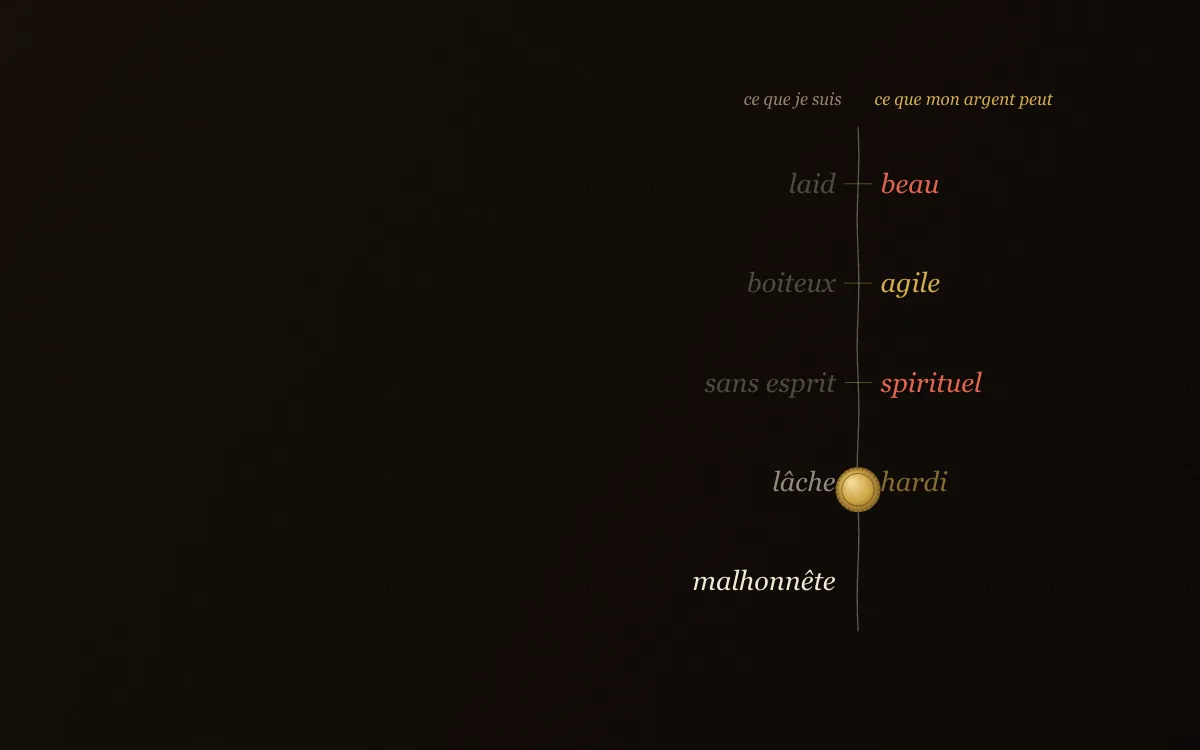
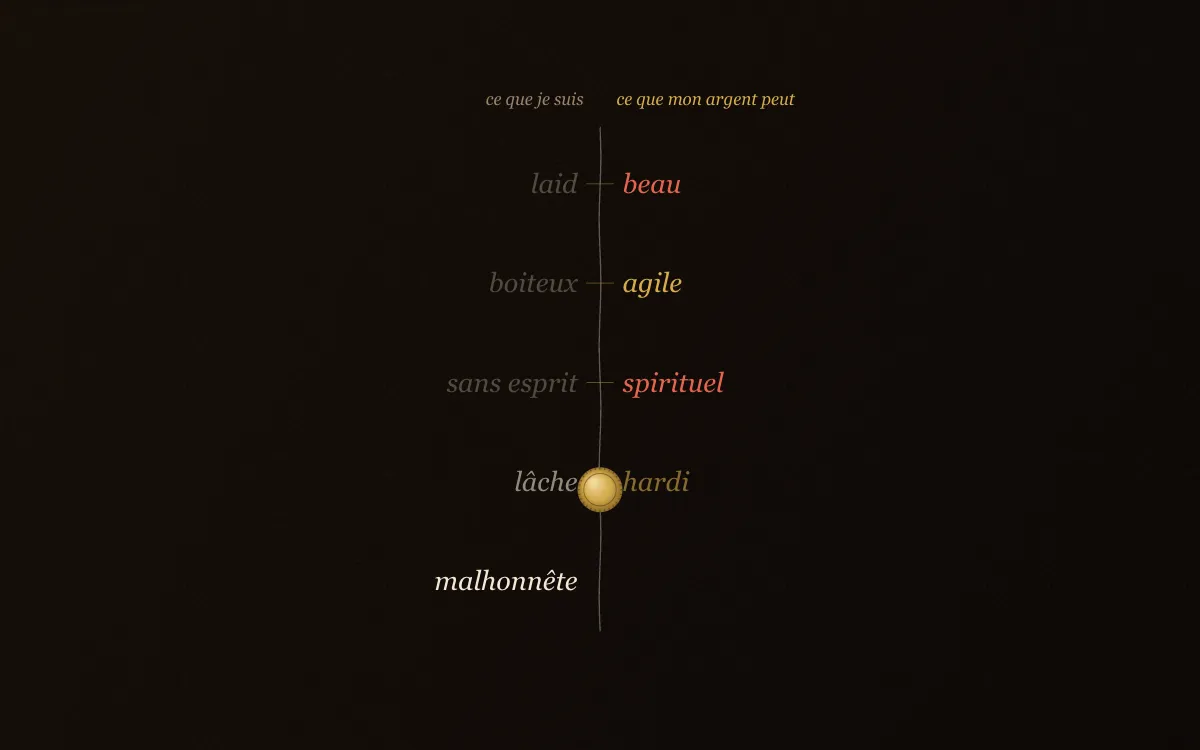
Glossaire : argent réécrite selon la charte, direction artistique « le contrat »

diff --git a/glossaire/mondes/argent/essai.html b/glossaire/mondes/argent/essai.html
@@ -1,51 +1,78 @@
-<!-- L'ESSAI — le corps de /glossaire/argent.
-     ⚠ AUCUNE CITATION LIÉE, ET C'EST DÉLIBÉRÉ. Le texte des Manuscrits que
+<!-- L'ESSAI : le corps de /glossaire/argent.
+     Réécrit en octobre 2026 selon glossaire/mondes/CHARTE.md.
+     AUCUNE CITATION LIÉE, ET C'EST DÉLIBÉRÉ : le texte des Manuscrits que
      ce site sert est la traduction d'Émile Bottigelli, protégée jusqu'en
-     2046 ; en reproduire vingt passages sur une page publique et indexée
-     n'est pas une décision technique. Le troisième manuscrit est donc
-     PARAPHRASÉ et situé, jamais cité entre guillemets — comme le Livre III
-     l'est sur la page de la loi tendancielle, et comme le font déjà les
-     versions courtes des notions des Manuscrits. -->
+     2046. Le fragment sur l'argent (troisième manuscrit, pages XLI à XLIII)
+     est PARAPHRASÉ et situé, jamais cité entre guillemets ; Goethe et
+     Shakespeare, que Marx cite, le sont aussi (leurs traductions sont
+     récentes). Ce qui est dit du Capital (chapitre III) a été relevé dans le
+     texte de Roy que sert la liseuse, et reste paraphrasé : la page n'a
+     qu'une source de citations. Les data-etape et les id des sections ne
+     changent pas : la scène lit les premiers, les liens et la recherche les
+     seconds. -->
 
 <section class="nt-sec" data-etape="puissance" id="puissance">
-<h2>Ce que je suis, et ce que je peux</h2>
-<p>Les dernières pages du troisième manuscrit de 1844 sont consacrées à l'argent, et elles se distinguent de tout le reste du cahier par leur allure&nbsp;: Marx y écrit presque en moraliste, appuyé sur Goethe et sur Shakespeare, et pourtant il n'y a pas dans ces pages une once de morale. Ce qu'il y cherche est une propriété très précise, et il la formule comme un écart&nbsp;: entre ce que je suis et ce que je peux, l'argent introduit une distance que rien, dans ma personne, ne justifie.</p>
-<p>L'expérience qu'il décrit est banale, et c'est ce qui la rend redoutable. Ce que je désire sans pouvoir l'obtenir demeure une simple représentation&nbsp;; mais l'argent transforme la représentation en effet, et l'effet en réalité. Il me confère des propriétés que je n'ai pas — celles des choses et des personnes qu'il me permet d'obtenir —, et il me les confère sans que j'aie eu à devenir quoi que ce soit. Marx en tire la formule qui commande tout le fragment&nbsp;: l'argent est le pouvoir aliéné de l'humanité, c'est-à-dire une puissance qui appartient aux hommes et qui se dresse devant eux comme un être séparé.</p>
-<p>Il faut d'emblée écarter la lecture qui viendrait le plus naturellement, parce qu'elle rendrait le texte inoffensif. Marx ne dit pas que l'argent corrompt les âmes, ni que les riches sont mauvais. Il dit que l'argent est une <b>puissance réelle</b>, dotée d'effets réels, et que ces effets consistent à séparer les qualités de ceux qui les portent. Ce n'est pas une faiblesse des hommes, c'est une propriété du rapport.</p>
+<h2>Que fait l'argent à celui qui le possède&nbsp;?</h2>
+<p class="nt-lead">Il lui donne les qualités qu'il n'a pas. Ce que je peux payer, je le suis&nbsp;: l'argent sépare ce que je suis de ce que je peux, et Marx l'appelle pour cette raison la puissance aliénée de l'humanité.</p>
+<p>Marx part d'une propriété que tout le monde connaît. L'argent peut tout acheter, c'est-à-dire s'approprier n'importe quel objet. Il est donc l'objet par excellence, celui qui donne accès à tous les autres, et l'universalité de ce pouvoir le fait passer pour tout-puissant. Il se place entre le besoin et la chose qui le satisfait, entre la vie d'un homme et ses moyens de subsistance. Marx ajoute aussitôt qu'il se place de la même façon entre moi et les autres hommes&nbsp;: ce qui me relie à ce dont je vis me relie aussi à ceux dont je dépends.</p>
+<p>Pour dire ce que cela change, il commence par un vers de Goethe. Dans le premier <i>Faust</i>, Méphistophélès explique que s'il peut payer six étalons, leurs forces sont à lui, et qu'il avance comme s'il avait vingt-quatre pattes. Marx prend la plaisanterie au sérieux. Les qualités de l'argent deviennent celles de son possesseur, et ma force est aussi grande que celle de mon argent. Ce que je suis et ce que je peux ne dépend donc plus de mon individualité.</p>
+<p>La formule qui résume le fragment vient de là. L'argent est la puissance aliénée de l'humanité. Une puissance aliénée, dans le vocabulaire de ces cahiers, est une force qui appartient aux hommes et qui leur fait face comme une chose étrangère, qu'ils ne commandent plus. La capacité de se procurer ce dont on a besoin, de faire travailler, de nouer des liens, est une capacité humaine&nbsp;; sous la forme de l'argent, elle se détache des hommes et se loge dans un objet que n'importe qui peut détenir.</p>
 </section>
 
 <section class="nt-sec" data-etape="ou" id="ou">
-<h2>Où Marx le pose&nbsp;: à la fin du troisième cahier</h2>
-<p>La place du fragment mérite qu'on s'y arrête, parce qu'elle n'est pas indifférente. Ces pages viennent après celles sur la <a href="/glossaire/propriete-privee">propriété privée</a> et le communisme, après celles sur les <a href="/glossaire/besoins">besoins</a> et la production, à la fin d'un cahier lui-même resté inachevé. Elles ne fondent donc rien&nbsp;: elles achèvent. Ce qui a été établi de l'aliénation du travail y trouve sa forme la plus condensée, dans un objet que tout le monde manie.</p>
-<p>On peut voir la progression, et elle est instructive. Le premier manuscrit avait montré que le travailleur, en produisant, produit une puissance qui lui devient étrangère — c'est le <a href="/glossaire/travail-aliene">travail aliéné</a>. Le troisième reprend la même figure à un autre niveau&nbsp;: l'humanité, dans son commerce, produit un moyen d'échange, et ce moyen devient la mesure et le maître de ce qu'il devait servir. L'argent est à la société ce que la statue est au sculpteur.</p>
-<p>Cette place explique aussi la manière. Marx n'analyse pas ici la monnaie&nbsp;: il ne demande pas d'où elle vient, ni comment elle mesure, ni ce que sont ses fonctions. Ces questions viendront vingt ans plus tard, au chapitre&nbsp;III du <a href="/glossaire/fetichisme">Capital</a>, et elles seront traitées tout autrement. Le fragment de 1844 pose une question philosophique&nbsp;: qu'est-ce qu'un objet qui donne à son possesseur des propriétés qu'il n'a pas&nbsp;? Il faut lire ces pages pour ce qu'elles sont, et ne pas leur demander une théorie monétaire qu'elles ne prétendent pas donner.</p>
+<h2>Où Marx écrit-il ces pages, et que cherche-t-il&nbsp;?</h2>
+<p class="nt-lead">Ce sont trois pages du troisième des <i>Manuscrits de 1844</i>, des notes de travail restées inédites jusqu'en 1932. Marx n'y fait pas la théorie de la monnaie&nbsp;: il demande ce que devient un homme quand ses rapports au monde passent par un objet qui peut tout acheter.</p>
+<p>Le fragment occupe les pages XLI à XLIII du cahier. L'éditeur signale qu'elles viennent, dans le manuscrit, après les notes sur la division du travail et après le projet de préface, que l'édition imprime en tête du volume. Le titre qu'on lit au-dessus, «&nbsp;Pouvoir de l'argent dans la société bourgeoise&nbsp;», est entre crochets&nbsp;: il est de l'éditeur, pas de Marx. Ces cahiers, écrits à Paris, n'ont jamais été publiés par leur auteur.</p>
+<p>Le fragment ne s'ouvre pas sur l'argent. Il s'ouvre sur les passions et les sens de l'homme, que Marx tient pour des manières d'affirmer son être&nbsp;: chacune a sa façon propre de se rapporter à son objet, et l'on ne jouit pas d'une musique comme d'un repas. C'est sur ce fond que l'argent apparaît, comme ce qui ramène toutes ces manières à une seule, avoir.</p>
+<p>Les pages qui précèdent dans le même cahier préparent le terrain. Sur les <a href="/glossaire/besoins">besoins</a>, Marx écrivait que sous la <a href="/glossaire/propriete-privee">propriété privée</a> chacun cherche à créer chez l'autre un besoin nouveau, pour le placer dans une dépendance nouvelle, et que le besoin d'argent est le seul besoin que produise l'économie politique. Il ajoutait que l'argent, réduisant tout à sa quantité, n'a plus d'autre mesure que la démesure. Le fragment sur l'argent reprend ces remarques et leur donne un objet&nbsp;: la pièce qu'on tient dans la main.</p>
 </section>
 
 <section class="nt-sec" data-etape="distinction" id="distinction">
-<h2>La distinction qui fait le concept&nbsp;: l'avoir et l'être</h2>
-<p>Le fragment tient sur une distinction que Marx conduit avec une rigueur presque scolastique. D'un côté, ce que je suis&nbsp;: mes facultés réelles, ce que je sais faire, ce que je peux effectivement susciter chez autrui. De l'autre, ce que mon argent est pour moi&nbsp;: ce qu'il me procure, et donc ce dont je parais capable. Dans le premier registre, mes propriétés sont <i>miennes</i>, en ce sens qu'elles ne valent que ce que je vaux. Dans le second, elles sont celles de mon argent, et elles valent ce qu'il vaut.</p>
-<p>La conséquence, dès qu'on la formule, est vertigineuse&nbsp;: l'individualité disparaît comme condition de l'effet. Si je suis laid, l'argent m'achète ce que la beauté obtiendrait&nbsp;; si je suis sans esprit, il m'achète ce qu'obtiendrait l'esprit&nbsp;; s'il faut du courage, il m'achète l'audace d'autrui. Chaque qualité devient disponible séparément de celui qui la porte, et le possesseur reçoit l'effet sans la cause. C'est bien pourquoi Marx parle d'inversion et non de tromperie&nbsp;: rien n'est caché, et pourtant chaque chose se présente à l'envers de ce qu'elle est.</p>
-<p>Il faut mesurer ce que cette distinction doit au <a href="/glossaire/travail-aliene">travail aliéné</a> et ce qu'elle y ajoute. Elle lui doit la structure&nbsp;: une puissance humaine qui, une fois objectivée, revient sur son auteur comme un pouvoir. Elle y ajoute la généralité&nbsp;: ce n'est plus le seul travailleur qui se trouve dépossédé de ce qu'il a produit, c'est chacun qui se trouve dépossédé de la nécessité d'être ce qu'il paraît. L'argent, dans ces pages, est moins un objet qu'un opérateur — il ne fait pas partie du monde qu'il transforme.</p>
+<h2>Quelle différence y a-t-il entre ce que je suis et ce que je peux&nbsp;?</h2>
+<p class="nt-lead">D'un côté mes forces propres, celles que je possède en personne&nbsp;; de l'autre, les forces que mon argent me procure. Sans argent, les deux colonnes se confondent. Avec lui, la seconde devient indépendante de la première.</p>
+<p>Marx déroule la distinction sur une série de cas, à la première personne. Je suis laid, mais je peux m'acheter la plus belle femme&nbsp;: l'effet de la laideur, ce qui repousse, est annulé, et je ne suis donc plus laid. Je suis perclus, et l'argent me donne vingt-quatre pattes. Je suis malhonnête et sans conscience, mais l'argent est honoré, donc son possesseur l'est aussi, et comme il m'épargne la peine d'être malhonnête, on me présume honnête. Je suis sans esprit, mais je peux payer les gens d'esprit&nbsp;; et celui qui a pouvoir sur les gens d'esprit, demande Marx avec ironie, n'est-il pas plus spirituel qu'eux&nbsp;?</p>
+<p>Chaque cas suit le même schéma. Une qualité produit un effet&nbsp;: la beauté attire, l'agilité déplace, l'esprit convainc. L'argent permet d'obtenir l'effet sans la qualité. Le possesseur reçoit le résultat d'une capacité qu'il n'a pas, et cette capacité se trouve alors séparée de ceux qui la portent, puisqu'elle s'achète au même titre qu'une chose.</p>
+<div class="nt-ex">
+<p class="nt-ex-t">Un exemple</p>
+<p>Marx en donne deux, très simples. Je veux faire une longue route et je ne suis pas assez fort pour la faire à pied. Si j'ai de l'argent, je prends la chaise de poste&nbsp;; mon désir quitte ma tête et devient un voyage. Celui qui n'a pas d'argent a le même désir, mais ce désir n'a d'effet ni sur les autres ni sur le monde&nbsp;: il reste une idée. Marx en conclut que, sans argent pour voyager, je n'ai pas de besoin réel de voyager.</p>
+<p>Le second exemple pousse plus loin. Un jeune homme a la vocation d'étudier et pas l'argent pour le faire&nbsp;: sa vocation ne mène nulle part, elle n'est pas une vocation effective. Un autre n'en a aucune, mais il a la volonté et l'argent&nbsp;: il étudiera, et il passera pour avoir une vocation. Entre les deux, Marx voit la différence de l'être et de la pensée. L'argent décide lequel de nos désirs existe hors de nous et lequel reste une simple représentation.</p>
+</div>
+<p>La distinction doit beaucoup au <a href="/glossaire/travail-aliene">travail aliéné</a> du premier manuscrit, où le produit de l'ouvrier lui faisait face comme une puissance étrangère. Elle en élargit la portée. Il ne s'agit plus seulement de l'ouvrier dépossédé de ce qu'il fabrique. Chacun, riche ou pauvre, voit ce qu'il peut se détacher de ce qu'il est&nbsp;: le riche obtient ce qu'il ne mérite pas, le pauvre manque ce dont il serait capable.</p>
 </section>
 
 <section class="nt-sec" data-etape="inversion" id="inversion">
-<h2>Le mécanisme&nbsp;: l'inversion universelle</h2>
-<p>La démonstration passe par deux textes littéraires que Marx cite longuement, et il est significatif qu'il ait eu besoin d'eux. Le premier est le <i>Faust</i> de Goethe, où l'or est présenté comme ce qui fait accourir à son possesseur ce que sa personne n'appellerait jamais. Le second est le <i>Timon d'Athènes</i> de Shakespeare, dont Marx retient l'invective contre l'or capable de rendre le noir blanc, le laid beau, le faux vrai, le lâche vaillant. Nous nous en tenons ici à en donner la teneur, sans les transcrire&nbsp;: le texte que ce site sert est une traduction récente, et nous préférons renvoyer au cahier plutôt que d'en reproduire les pages.</p>
-<p>Ce que Marx tire de ces deux témoignages n'est pas une image mais une propriété logique, qu'il énonce en deux temps. Premier temps&nbsp;: l'argent est la <b>confusion</b> de toutes les déterminations, en ce qu'il rend chaque chose échangeable contre chaque autre et abolit donc la spécificité de chacune. Second temps&nbsp;: il est par là même l'<b>inversion</b> de toutes choses, puisqu'il permet de réaliser le contraire de ce que l'on est. La confusion vient de son universalité, l'inversion de sa transitivité — et les deux ensemble font que la fidélité peut s'échanger contre l'infidélité, la vertu contre le vice, l'amour contre la haine.</p>
-<p>On aperçoit ici pourquoi Marx accorde tant de poids à un fragment qui pourrait passer pour un morceau de rhétorique. Ce que l'argent défait, ce n'est pas la vertu de tel homme&nbsp;: c'est la liaison entre une qualité et sa manifestation. Or cette liaison est ce que 1844 appelle la vie générique — le fait que ce que l'homme est se déploie dans ce qu'il fait. Le fragment sur l'argent est donc l'achèvement de la théorie de l'aliénation, et non un appendice moral&nbsp;: il montre l'aliénation devenue un objet qu'on tient dans la main.</p>
+<h2>Pourquoi Marx parle-t-il d'un monde à l'envers&nbsp;?</h2>
+<p class="nt-lead">Parce que l'argent s'échange contre le monde entier, et non contre une qualité déterminée. Du point de vue de celui qui le possède, il échange donc n'importe quelle qualité contre n'importe quelle autre, y compris contre son contraire.</p>
+<p>Le second témoin de Marx est Shakespeare. Il recopie deux tirades du <i>Timon d'Athènes</i> (acte&nbsp;IV, scène&nbsp;3), où Timon, ruiné et retiré dans une forêt, trouve de l'or en creusant la terre et l'injurie. Ce peu de métal, dit Timon, rend blanc le noir, beau le laid, juste l'injuste, vaillant le lâche&nbsp;; il fait bénir les maudits et asseoir les voleurs au sénat. Plus loin, il l'appelle un dieu visible, qui soude ensemble les choses incompatibles. Marx souligne ces mots, et ceux où l'or jette l'humanité dans des querelles qui la détruisent. Il ajoute que Shakespeare a parfaitement décrit l'essence de l'argent.</p>
+<div data-planche="timon"></div>
+<p>Marx retient de Shakespeare deux propriétés. L'argent est d'abord la divinité visible, qui change toutes les qualités humaines et naturelles en leur contraire&nbsp;: Marx parle de confusion et de perversion universelle des choses, et de fraternisation des impossibilités. Il est ensuite l'entremetteur universel, qui met en rapport les hommes et les peuples. Les deux propriétés vont ensemble. Puisque tout passe par lui, il relie tout, et c'est en reliant tout qu'il rend tout échangeable contre tout.</p>
+<p>Il faut bien voir ce que veut dire «&nbsp;à l'envers&nbsp;». Marx énumère&nbsp;: l'argent change la fidélité en infidélité, l'amour en haine, la vertu en vice, le valet en maître, la bêtise en intelligence, et chaque fois l'inverse aussi. Qui peut acheter le courage est courageux, même s'il est lâche. Personne n'est trompé dans l'affaire. Le lâche qui paie des soldats remporte bel et bien la bataille&nbsp;; c'est le lien entre une qualité et ce qu'elle produit qui a été défait.</p>
+<p>Marx tire de là une dernière image, pleine d'ironie. L'argent est le lien de tous les liens, ce qui m'attache à la vie humaine, à la société et à la nature. Il peut donc aussi bien nouer que dénouer tous les liens&nbsp;: il est le moyen universel de séparation, en même temps que le moyen d'union. Il l'appelle la vraie monnaie divisionnaire, en jouant sur le mot&nbsp;: la petite monnaie qui sert à faire l'appoint est aussi celle qui divise.</p>
 </section>
 
 <section class="nt-sec" data-etape="ouvre" id="ouvre">
-<h2>Ce que le concept ouvre&nbsp;: la mesure d'une richesse</h2>
-<p>Le fragment se retourne dans ses dernières lignes, et ce retournement est ce que la page doit retenir. Marx demande qu'on suppose l'homme comme homme, et son rapport au monde comme un rapport humain&nbsp;: alors chacune de ses relations à l'objet devrait être une expression déterminée de sa vie individuelle réelle. Aimer suppose de susciter l'amour&nbsp;; jouir de l'art suppose une culture artistique&nbsp;; exercer une influence sur autrui suppose d'être effectivement quelqu'un qui stimule et encourage. Si l'on aime sans éveiller l'amour en retour, alors cet amour est impuissant, et c'est un malheur.</p>
-<p>La proposition est plus forte qu'elle n'en a l'air, en cela qu'elle donne un critère. La richesse humaine n'est pas la quantité de choses dont on dispose&nbsp;: elle est l'étendue des rapports que l'on est capable d'entretenir réellement, chacun demandant une capacité déterminée. On voit alors ce que l'argent supprime — non des biens, mais la nécessité des capacités —, et pourquoi Marx tient cette suppression pour une perte, y compris pour celui qui en profite.</p>
-<p>Nous ajoutons que ce critère éclaire rétrospectivement les pages sur les <a href="/glossaire/besoins">besoins</a> qui précèdent dans le même cahier, et qu'il faut lire les deux ensemble. Là, Marx observait que sous la propriété privée chacun s'emploie à susciter chez l'autre un besoin nouveau, afin de l'obliger à un sacrifice nouveau&nbsp;; ici, il donne la mesure de ce que serait un besoin non aliéné. Ce ne sont pas deux thèmes, c'est le même, pris par les deux bouts.</p>
+<h2>À quoi ressemblerait un rapport qui ne passe pas par l'argent&nbsp;?</h2>
+<p class="nt-lead">À un rapport où chaque chose ne s'obtient que par la capacité qui lui répond&nbsp;: l'amour contre l'amour, la confiance contre la confiance. Le fragment se termine sur ce critère, qui donne la mesure d'une richesse proprement humaine.</p>
+<p>Les dernières lignes changent de ton. Marx demande au lecteur de supposer l'homme en tant qu'homme et son rapport au monde comme un rapport humain. Alors on ne peut échanger l'amour que contre l'amour, la confiance que contre la confiance. Pour jouir de l'art, il faut être un homme cultivé en matière d'art. Pour avoir de l'influence sur les autres, il faut avoir sur eux une action qui les anime et les stimule réellement. Chacun de nos rapports aux hommes et à la nature doit être une expression déterminée de notre vie individuelle réelle.</p>
+<p>La dernière phrase est la plus forte. Si l'on aime sans faire naître l'amour en retour, si en aimant on ne devient pas un homme aimé, cet amour est impuissant, et c'est un malheur. Marx ne juge personne. Un rapport humain se gagne en devenant capable de le susciter, et il peut échouer.</p>
+<p>On voit alors ce que l'argent retire, y compris à celui qui en profite&nbsp;: la nécessité de devenir capable. Celui qui paie la compagnie des gens d'esprit n'a jamais à le devenir. La richesse humaine se mesure, dans ce passage, à l'étendue des rapports que l'on est réellement capable d'entretenir avec le monde et avec les autres&nbsp;; l'argent la remplace par la quantité de ce que l'on peut se procurer. Le même cahier appelle <a href="/glossaire/communisme">communisme</a> la société où ces rapports redeviendraient humains, et il prend soin de le distinguer d'un communisme grossier qui ne ferait qu'étendre à tous la possession.</p>
 </section>
 
 <section class="nt-sec" data-etape="lectures" id="lectures">
-<h2>Lectures, et contresens</h2>
-<p>Le premier contresens fait de ces pages un pamphlet contre l'argent, et Marx un moraliste qui regretterait un monde sans monnaie. Le texte n'autorise pas cette lecture&nbsp;: il ne demande pas la suppression d'un objet, il décrit la structure d'un rapport où les qualités se détachent de leurs porteurs. Le remède qu'il esquisse n'est d'ailleurs pas l'abstinence mais une transformation du rapport social lui-même — ce que le même cahier appelle communisme, et dont il prend soin de distinguer la version fruste qui ne ferait qu'universaliser la possession.</p>
-<p>Le deuxième contresens consiste à lire ici la théorie monétaire de Marx. Elle n'y est pas, et il faut le dire nettement pour éviter de prêter au jeune Marx ce qu'il n'a pas encore. Rien dans ces pages sur la forme-valeur, rien sur l'équivalent général, rien sur la fonction de mesure ni sur le trésor&nbsp;: tout cela viendra du chapitre&nbsp;III du <i>Capital</i>, et changera de terrain, puisqu'il s'agira d'expliquer comment la monnaie naît de l'échange des marchandises et non plus ce qu'elle fait à ceux qui la détiennent. Il y a bien une continuité — l'inversion de 1844 annonce le <a href="/glossaire/fetichisme">fétichisme</a> de 1867 — mais elle est de problème, non de doctrine.</p>
-<p>Le troisième contresens est de statut. Les <i>Manuscrits de 1844</i> sont des cahiers de travail, restés inédits jusqu'en 1932&nbsp;; ils n'ont pas été publiés par leur auteur, qui les a laissés pour passer à autre chose. Nous nous rangeons parmi ceux qui les lisent comme un chantier de grande portée plutôt que comme un système achevé, et nous tenons pour imprudent, dans les deux sens, de faire du fragment sur l'argent soit la clé de toute l'œuvre, soit un péché de jeunesse dont la maturité aurait guéri.</p>
-<p>Reste un point de vocabulaire. On lit parfois que l'argent serait ici une «&nbsp;divinité visible&nbsp;»&nbsp;; l'expression vient de Shakespeare, que Marx cite, et non de Marx lui-même — elle décrit ce que l'or fait, dans la bouche de Timon, et il est plus juste de dire que Marx la reprend à son compte que de la lui attribuer.</p>
+<h2>Comment lire ce fragment, et quels contresens éviter&nbsp;?</h2>
+<p class="nt-lead">Il faut le lire comme l'analyse d'une forme sociale, que <i>Le Capital</i> reprendra sur un autre terrain. Trois contresens courants se corrigent en relisant le texte.</p>
+<p>Vingt ans plus tard, au chapitre&nbsp;III du premier livre du <i>Capital</i>, consacré à la monnaie et à la circulation des marchandises, on retrouve la même idée dans un autre vocabulaire. Marx y décrit l'argent comme un niveleur radical qui efface toutes les distinctions, de même que toute différence de qualité entre les marchandises s'efface en lui&nbsp;; et il note que, l'argent étant une chose qui peut tomber entre les mains de n'importe qui, la puissance sociale devient la puissance privée des particuliers. La phrase de 1844 sur la puissance aliénée de l'humanité est devenue une analyse de la circulation. Entre les deux, Marx a établi d'où vient l'argent&nbsp;: de l'échange des marchandises, ce que les <i>Manuscrits</i> ne demandaient pas. Le chapitre sur le <a href="/glossaire/fetichisme">fétichisme</a> qui précède en donne la raison.</p>
+<p>Le fragment dit lui-même, en passant, que l'argent est le concept existant de la valeur, ce qui annonce ce déplacement. Il n'en tire pas encore de théorie. Il n'y est question ni de mesure des valeurs, ni de moyen de circulation, ni de trésor.</p>
+<div class="nt-cs">
+<p><span class="nt-cs-k">On lit souvent</span> Marx ferait ici la morale aux riches, et regretterait un monde sans monnaie où l'on serait jugé sur ses mérites.</p>
+<p><span class="nt-cs-k">Ce que dit le texte</span> Il décrit l'effet d'un rapport social sur tous ceux qui y sont pris, riches et pauvres. Le possesseur d'argent n'y est pas coupable&nbsp;: il est dispensé d'être ce qu'il paraît. Le critère de la fin porte sur la manière dont les hommes se rapportent les uns aux autres, et pas sur les vertus de quelques-uns.</p>
+</div>
+<div class="nt-cs">
+<p><span class="nt-cs-k">On lit souvent</span> Ces pages contiendraient déjà la théorie de la monnaie de Marx.</p>
+<p><span class="nt-cs-k">Ce que dit le texte</span> Elles décrivent ce que l'argent fait à ceux qui le détiennent. Les fonctions de la monnaie et sa naissance dans l'échange viennent avec <i>Le Capital</i>. La continuité est celle d'un problème&nbsp;: comment une puissance humaine prend la forme d'une chose.</p>
+</div>
+<div class="nt-cs">
+<p><span class="nt-cs-k">On lit souvent</span> L'argent comme «&nbsp;divinité visible&nbsp;» serait une formule de Marx.</p>
+<p><span class="nt-cs-k">Ce que dit le texte</span> L'image vient de Shakespeare&nbsp;: c'est Timon qui appelle l'or un dieu visible. Marx la reprend en commentant le passage, et il s'en sert pour nommer une propriété qu'il analyse ensuite pour son compte.</p>
+</div>
 </section>

diff --git a/glossaire/mondes/argent/monde.js b/glossaire/mondes/argent/monde.js
@@ -79,7 +79,12 @@ window.LM_MONDE = function (canvas) {
     /* LA FIGURE VIT DANS LA MOITIÉ DROITE : la colonne de texte occupe les
        quarante-trois premiers pour cent, et un mot qui passe dessous ne
        traverse rien du tout. */
-    var XA = cw * 0.475, XR = cw * 0.715, XB = cw * 0.955;
+    /* Octobre 2026 : la scène est une figure en bas de page que rien ne
+       recouvre. Le décalage à droite ne joue plus que sur un canevas d'au
+       moins 1100 px qui ne serait pas une figure ; sinon la composition est
+       centrée. */
+    var large = cw >= 1100 && !(canvas.closest && canvas.closest('.nt-fig'));
+    var XA = large ? cw * 0.475 : cw * 0.14, XR = large ? cw * 0.715 : cw * 0.5, XB = large ? cw * 0.955 : cw * 0.86;
     var Y0 = ch * 0.245, Y1 = ch * 0.775, PAS = (Y1 - Y0) / (LIGNES.length - 1);
     var taille = Math.max(15, Math.round(ch * 0.036));
 
